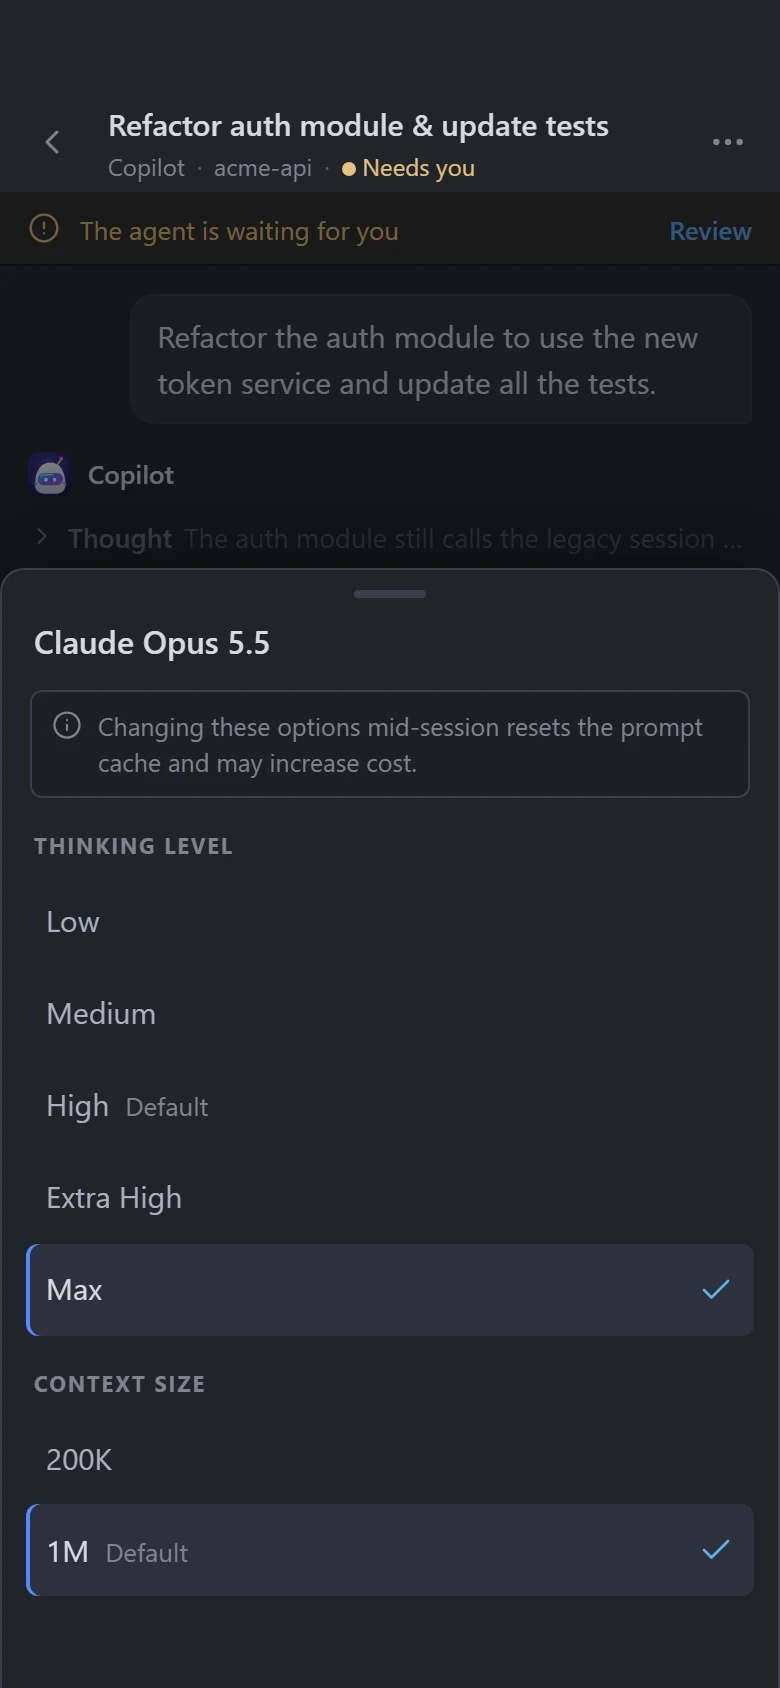
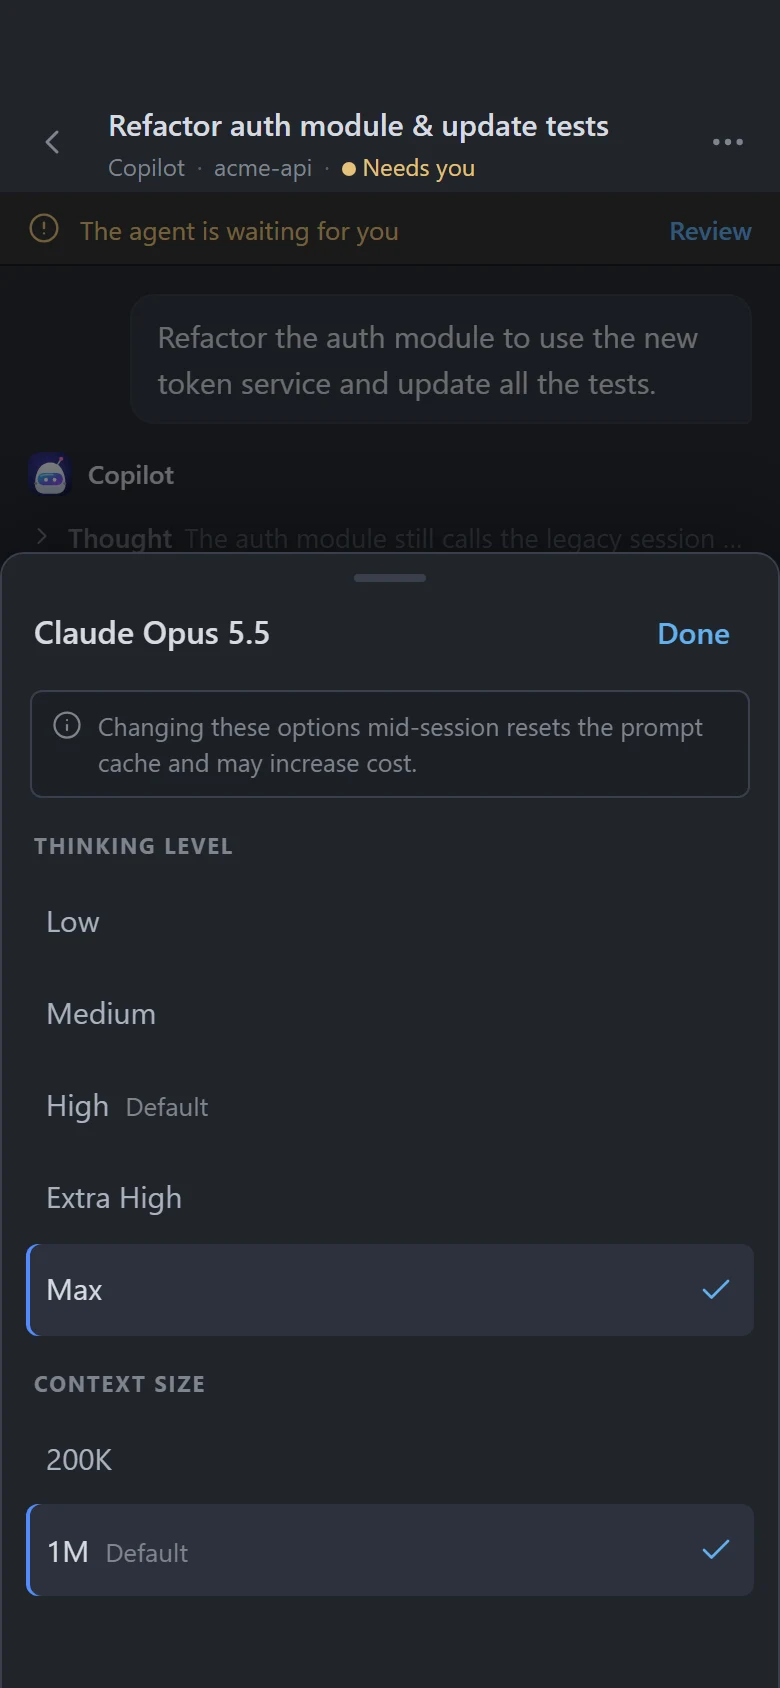
0.6.5: every sheet closes with Done, a swipe down, a tap outside or Escape
- Sheet: a sticky header with the title and Done (Cancel for New session,
  the folder browser and the confirm/set-up sheets, Close for the file
  viewer), so the way out stays in view while the sheet scrolls.
- Swipe down to close on phones: from the handle or header at any time,
  from the content once it's scrolled to the top; short pulls spring
  back, quick flicks close. Touch handlers use lowercase event names so
  Preact attaches them everywhere.
- Escape closes only the top sheet when sheets are stacked.
- Unit test for the swipe threshold; screenshots updated.

Changed region(s): [[0.0308, 0.3697, 0.3385, 0.4005], [0.8308, 0.3697, 0.9231, 0.4005], [0.4615, 0.3389, 0.5538, 0.3697]]

diff --git a/pwa/js/ui/common.js b/pwa/js/ui/common.js
@@ -1,4 +1,4 @@
-import { html, useEffect, useState } from '../lib/ui.js';
+import { html, useEffect, useState, useRef } from '../lib/ui.js';
 
 const P = {
   back: 'M15 18l-6-6 6-6',
@@ -101,19 +101,90 @@ export function Toasts() {
 
 // ---------------------------------------------------------------- sheet
 
-export function Sheet({ open, onClose, title, children, wide = false }) {
+// Open sheets, newest last: Escape closes only the top one (a model picker over the new-session sheet).
+const openSheets = [];
+if (typeof window !== 'undefined' && typeof window.addEventListener === 'function') {
+  window.addEventListener('keydown', (e) => {
+    if (e.key === 'Escape' && openSheets.length) openSheets[openSheets.length - 1].current();
+  });
+}
+
+/** Whether a downward swipe of `dy` pixels in `ms` milliseconds closes a sheet `height` pixels tall. */
+export function swipeCloses(dy, ms, height) {
+  return dy > Math.min(140, height * 0.3) || (dy > 40 && dy / Math.max(ms, 1) > 0.5);
+}
+
+/**
+ * A bottom sheet (a centred dialog on wide screens). It always says how to leave it: the Done button in
+ * its header (`doneLabel`, e.g. Cancel where closing backs out), a swipe down, a tap outside, or Escape.
+ */
+export function Sheet({ open, onClose, title, children, wide = false, doneLabel = 'Done' }) {
+  const ref = useRef(null);
+  const drag = useRef(null);
+  const close = useRef(onClose);
+  close.current = onClose;
   useEffect(() => {
     if (!open) return undefined;
-    const onKey = (e) => e.key === 'Escape' && onClose();
-    window.addEventListener('keydown', onKey);
-    return () => window.removeEventListener('keydown', onKey);
+    openSheets.push(close);
+    return () => {
+      const i = openSheets.indexOf(close);
+      if (i >= 0) openSheets.splice(i, 1);
+    };
   }, [open]);
   if (!open) return null;
+  const el = () => ref.current;
+  // Swipe down to close: from the handle or the header at any time, or from the content once it's
+  // scrolled to the top (an upward swipe, or any swipe further down the content, just scrolls).
+  const start = (e) => {
+    if (e.touches.length !== 1 || !matchMedia('(max-width: 899px)').matches) return;
+    const fromHead = !!e.target.closest('.sheet-top');
+    if (!fromHead && (el().scrollTop > 0 || e.target.closest('input, textarea, select, pre'))) return;
+    const t = e.touches[0];
+    drag.current = { x0: t.clientX, y0: t.clientY, dy: 0, t0: Date.now(), active: fromHead };
+  };
+  const move = (e) => {
+    const d = drag.current;
+    if (!d) return;
+    const t = e.touches[0];
+    const dx = t.clientX - d.x0;
+    const dy = t.clientY - d.y0;
+    if (!d.active) {
+      if (dy > 8 && dy > Math.abs(dx) && el().scrollTop <= 0) d.active = true;
+      else if (dy < -4 || Math.abs(dx) > 8) {
+        drag.current = null;
+        return;
+      } else return;
+    }
+    d.dy = Math.max(0, dy);
+    el().style.transition = 'none';
+    el().style.transform = `translateY(${d.dy}px)`;
+    if (e.cancelable) e.preventDefault();
+  };
+  const end = () => {
+    const d = drag.current;
+    drag.current = null;
+    if (!d?.active) return;
+    const sheet = el();
+    sheet.style.transition = 'transform 0.18s ease';
+    if (swipeCloses(d.dy, Date.now() - d.t0, sheet.offsetHeight)) {
+      sheet.style.transform = 'translateY(100%)';
+      if (sheet.previousElementSibling) sheet.previousElementSibling.style.opacity = '0';
+      setTimeout(() => close.current(), 170);
+    } else {
+      sheet.style.transform = '';
+    }
+  };
   return html`<div>
     <div class="scrim" onClick=${onClose}></div>
-    <div class=${`sheet ${wide ? 'wide' : ''}`} role="dialog" aria-modal="true" aria-label=${title}>
-      <div class="grab"></div>
-      ${title ? html`<h3>${title}</h3>` : null}
+    <div ref=${ref} class=${`sheet ${wide ? 'wide' : ''}`} role="dialog" aria-modal="true" aria-label=${title}
+      ontouchstart=${start} ontouchmove=${move} ontouchend=${end} ontouchcancel=${end}>
+      <div class="sheet-top">
+        <div class="grab" aria-hidden="true"></div>
+        <div class="sheet-head">
+          <h3>${title || ''}</h3>
+          <button type="button" class="sheet-done" onClick=${onClose}>${doneLabel}</button>
+        </div>
+      </div>
       ${children}
     </div>
   </div>`;

diff --git a/pwa/css/app.css b/pwa/css/app.css
@@ -431,10 +431,15 @@ a.btn { text-decoration: none; }
 /* ---------- sheets (quick picks) */
 .scrim { position: fixed; inset: 0; z-index: 40; background: rgba(0, 0, 0, 0.5); animation: fade 0.18s ease; }
 @keyframes fade { from { opacity: 0; } }
-.sheet { position: fixed; left: 0; right: 0; bottom: 0; z-index: 41; max-width: 720px; max-height: 88%; margin: 0 auto; padding: 6px 12px calc(var(--safe-bottom) + 16px); overflow-y: auto; background: var(--bg-2); border: 1px solid var(--line-2); border-bottom: none; border-radius: 12px 12px 0 0; box-shadow: 0 -12px 40px rgba(0, 0, 0, 0.35); animation: up 0.22s cubic-bezier(0.2, 0.8, 0.2, 1); }
+.sheet { position: fixed; left: 0; right: 0; bottom: 0; z-index: 41; max-width: 720px; max-height: 88%; margin: 0 auto; padding: 0 12px calc(var(--safe-bottom) + 16px); overflow-y: auto; overscroll-behavior: contain; background: var(--bg-2); border: 1px solid var(--line-2); border-bottom: none; border-radius: 12px 12px 0 0; box-shadow: 0 -12px 40px rgba(0, 0, 0, 0.35); animation: up 0.22s cubic-bezier(0.2, 0.8, 0.2, 1); }
 @keyframes up { from { opacity: 0; transform: translateY(30px); } }
-.sheet .grab { width: 36px; height: 4px; margin: 4px auto 10px; border-radius: 99px; background: var(--line-2); }
-.sheet h3 { margin: 0 4px 12px; font-size: 16px; font-weight: 600; color: var(--strong); }
+/* The handle and header stay in view while the sheet scrolls, so Done is always there. */
+.sheet-top { position: sticky; top: 0; z-index: 2; margin: 0 -12px 6px; padding: 6px 12px 4px; background: var(--bg-2); touch-action: none; }
+.sheet .grab { width: 36px; height: 4px; margin: 4px auto 6px; border-radius: 99px; background: var(--line-2); }
+.sheet-head { display: flex; align-items: center; gap: 10px; min-height: 38px; }
+.sheet-head h3 { flex: 1; min-width: 0; margin: 0 4px; overflow: hidden; font-size: 16px; font-weight: 600; color: var(--strong); text-overflow: ellipsis; white-space: nowrap; }
+.sheet-done { flex: none; height: 36px; padding: 0 12px; font-size: 15px; font-weight: 600; color: var(--accent); border-radius: 6px; }
+.sheet-done:hover, .sheet-done:active { background: var(--surface-3); }
 .sheet .section-title { margin: 16px 4px 6px; }
 .list-item { display: flex; align-items: center; gap: 12px; width: 100%; min-height: 46px; padding: 8px 10px; text-align: left; color: var(--text); border-radius: 6px; }
 .list-item:hover, .list-item:active { background: var(--surface); }
@@ -558,9 +563,10 @@ details.card > summary { cursor: pointer; }
   .chat-empty h2 { font-size: 20px; }
   .chat-empty p { max-width: 460px; font-size: 14px; }
   /* Sheets become centred quick picks. */
-  .sheet { top: 9vh; bottom: auto; left: 50%; right: auto; width: min(560px, calc(100vw - 48px)); max-height: 82vh; margin: 0; padding: 12px 12px 14px; border: 1px solid var(--line-2); border-radius: 10px; box-shadow: 0 18px 60px rgba(0, 0, 0, 0.5); transform: translateX(-50%); animation: drop 0.16s ease; }
+  .sheet { top: 9vh; bottom: auto; left: 50%; right: auto; width: min(560px, calc(100vw - 48px)); max-height: 82vh; margin: 0; padding: 0 12px 14px; border: 1px solid var(--line-2); border-radius: 10px; box-shadow: 0 18px 60px rgba(0, 0, 0, 0.5); transform: translateX(-50%); animation: drop 0.16s ease; }
   .sheet.wide { width: min(980px, calc(100vw - 48px)); }
   .sheet .grab { display: none; }
+  .sheet-top { padding-top: 10px; border-radius: 10px 10px 0 0; }
   .scrim { background: rgba(0, 0, 0, 0.4); }
   .page.safe { max-width: 600px; padding-top: 40px; }
   .composer textarea { min-height: 48px; }

diff --git a/pwa/js/ui/authenticator.js b/pwa/js/ui/authenticator.js
@@ -238,13 +238,13 @@ function PasskeyBody({ request }) {
 /** The PC asks for the passkey again (every 12 hours by default) and the browser needs a tap for it. */
 export function PasskeySheet({ request, onCancel }) {
   if (!request) return null;
-  return html`<${Sheet} open=${true} onClose=${onCancel} title="Confirm it's you"><${PasskeyBody} request=${request} /></${Sheet}>`;
+  return html`<${Sheet} open=${true} onClose=${onCancel} title="Confirm it's you" doneLabel="Cancel"><${PasskeyBody} request=${request} /></${Sheet}>`;
 }
 
 /** After a yes on the PC: a new passkey or an authenticator app for this device. */
 export function FactorSheet({ request, onCancel }) {
   if (!request) return null;
-  return html`<${Sheet} open=${true} onClose=${onCancel} title="Set up this device again">
+  return html`<${Sheet} open=${true} onClose=${onCancel} title="Set up this device again" doneLabel="Cancel">
     <${FactorChooser} register=${request.register} allowTotp=${request.allowTotp} canPasskey=${request.canPasskey}
       storageKey=${request.storageKey} hostName=${request.hostName} deviceName=${request.deviceName}
       intro="Your PC allowed it. Save a new passkey, or use codes from an authenticator app from now on."
@@ -255,7 +255,7 @@ export function FactorSheet({ request, onCancel }) {
 /** The PC asks for a code again (every 12 hours by default). */
 export function CodeSheet({ request, onSubmit, onCancel, onReset }) {
   if (!request) return null;
-  return html`<${Sheet} open=${true} onClose=${onCancel} title="Confirm it's you">
+  return html`<${Sheet} open=${true} onClose=${onCancel} title="Confirm it's you" doneLabel="Cancel">
     <div class="stack">
       <p class="muted" style="margin:0">Open your authenticator app and enter the code for <b>Pocket Pilot</b> · ${request.hostName}${request.deviceName ? ` · ${request.deviceName}` : ''}.</p>
       ${request.wrong && html`<div class="errpart">That code didn't match. Enter the code your authenticator app shows now.</div>`}

diff --git a/pwa/js/ui/sessions.js b/pwa/js/ui/sessions.js
@@ -115,7 +115,7 @@ function FolderBrowser({ store, start, onPick, onClose }) {
     setPath(u.href);
   };
   const join = (name) => `${path.replace(/\/+$/, '')}/${encodeURIComponent(name)}`;
-  return html`<${Sheet} open=${true} onClose=${onClose} title="Choose a folder">
+  return html`<${Sheet} open=${true} onClose=${onClose} title="Choose a folder" doneLabel="Cancel">
     <div class="kv" style="margin-bottom:8px">${filePath(path)}</div>
     <div class="row" style="margin-bottom:8px">
       <button class="btn sm" onClick=${up}><${Icon} name="back" size="16" /> Up</button>
@@ -173,7 +173,7 @@ function NewSession({ store, open, onClose, onCreated }) {
       setBusy(false);
     }
   }
-  return html`<${Sheet} open=${open} onClose=${onClose} title="New session">
+  return html`<${Sheet} open=${open} onClose=${onClose} title="New session" doneLabel="Cancel">
     <div class="stack">
       ${agents.length > 1 && html`<div class="seg">${agents.map((a) => html`<button class=${provider === a.provider ? 'on' : ''} onClick=${() => { setProvider(a.provider); setModelSel(null); }}>${a.displayName}</button>`)}</div>`}
       <div class="field"><label>What should the agent do?</label>

diff --git a/pwa/js/ui/chat.js b/pwa/js/ui/chat.js
@@ -32,7 +32,7 @@ function FileViewer({ store, uri, onClose }) {
   useEffect(() => {
     if (state.text && lang && state.text.length < 120000 && codeRef.current) highlightElement(codeRef.current).catch(() => {});
   }, [state.text, lang]);
-  return html`<${Sheet} open=${!!uri} onClose=${onClose} wide=${true} title=${uri ? filePath(uri).split(/[\\/]/).pop() : ''}>
+  return html`<${Sheet} open=${!!uri} onClose=${onClose} wide=${true} doneLabel="Close" title=${uri ? filePath(uri).split(/[\\/]/).pop() : ''}>
     <div class="kv" style="margin-bottom:8px">${uri ? filePath(uri) : ''}</div>
     ${state.loading ? html`<${Spinner} />` : state.error ? html`<div class="errpart">${state.error}</div>` : html`<div class="md"><pre><code key=${uri} ref=${codeRef} class=${lang ? `language-${lang}` : ''}>${state.text}</code></pre></div>`}
   </${Sheet}>`;

diff --git a/pwa/js/net/host-connection.js b/pwa/js/net/host-connection.js
@@ -6,7 +6,7 @@ import { normalizeCode } from '../core/totp.js';
 import { openSocket, SocketClosedError } from './socket.js';
 import { lookupHostUrl } from './rendezvous.js';
 
-export const APP_VERSION = '0.6.4';
+export const APP_VERSION = '0.6.5';
 // How long a typed authenticator code may still go along with a reconnect (codes last 30-90 seconds).
 const CODE_REUSE_MS = 75 * 1000;
 

diff --git a/CHANGELOG.md b/CHANGELOG.md
@@ -1,5 +1,9 @@
 # Changelog
 
+## 0.6.5
+
+- **Every sheet in the app says how to leave it.** Sheets now have a header with **Done** (or **Cancel** where closing backs out, like *New session*), and it stays in view while the list scrolls. You can also swipe a sheet down to close it, from the handle or the title at any time, or from the list once it's scrolled to the top; a short pull springs back. Tapping outside still works, and Escape now closes only the top sheet when one opens over another (the model list over *New session*). Sheets with a single choice, like the model list, mode and approvals, still close as soon as you pick.
+
 ## 0.6.4
 
 - **Turning remote access off and on in the GitHub Copilot app panel.** After **Turn off remote access**, the panel kept showing *Tunnel online*, the code buttons and the same button. The panel now shows the state at the top (*Remote access on* in green, *Remote access off* in grey, like the Pocket Pilot panel in VS Code). When it's off, a card says so and offers **Turn on remote access**, which starts it again right there; the panel stays open and shows the new QR code, and you can still remove paired devices meanwhile. It also follows along when remote access is turned off or on from a chat (`/pocket-pilot off`, `/pocket-pilot`), and moves to another chat's panel when that chat takes over.
